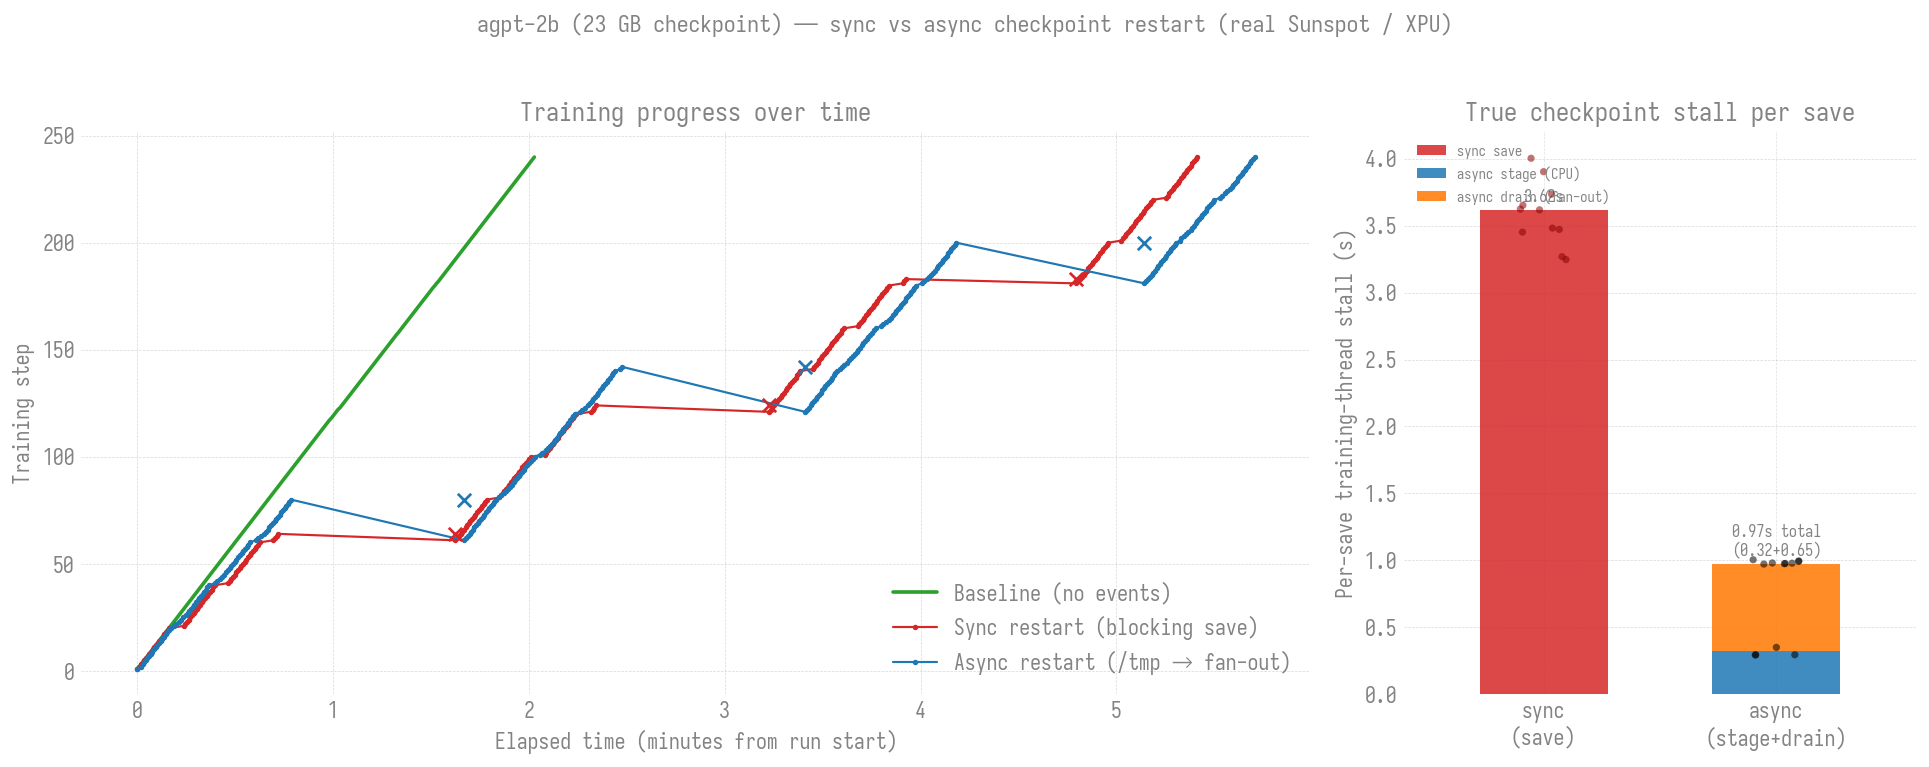
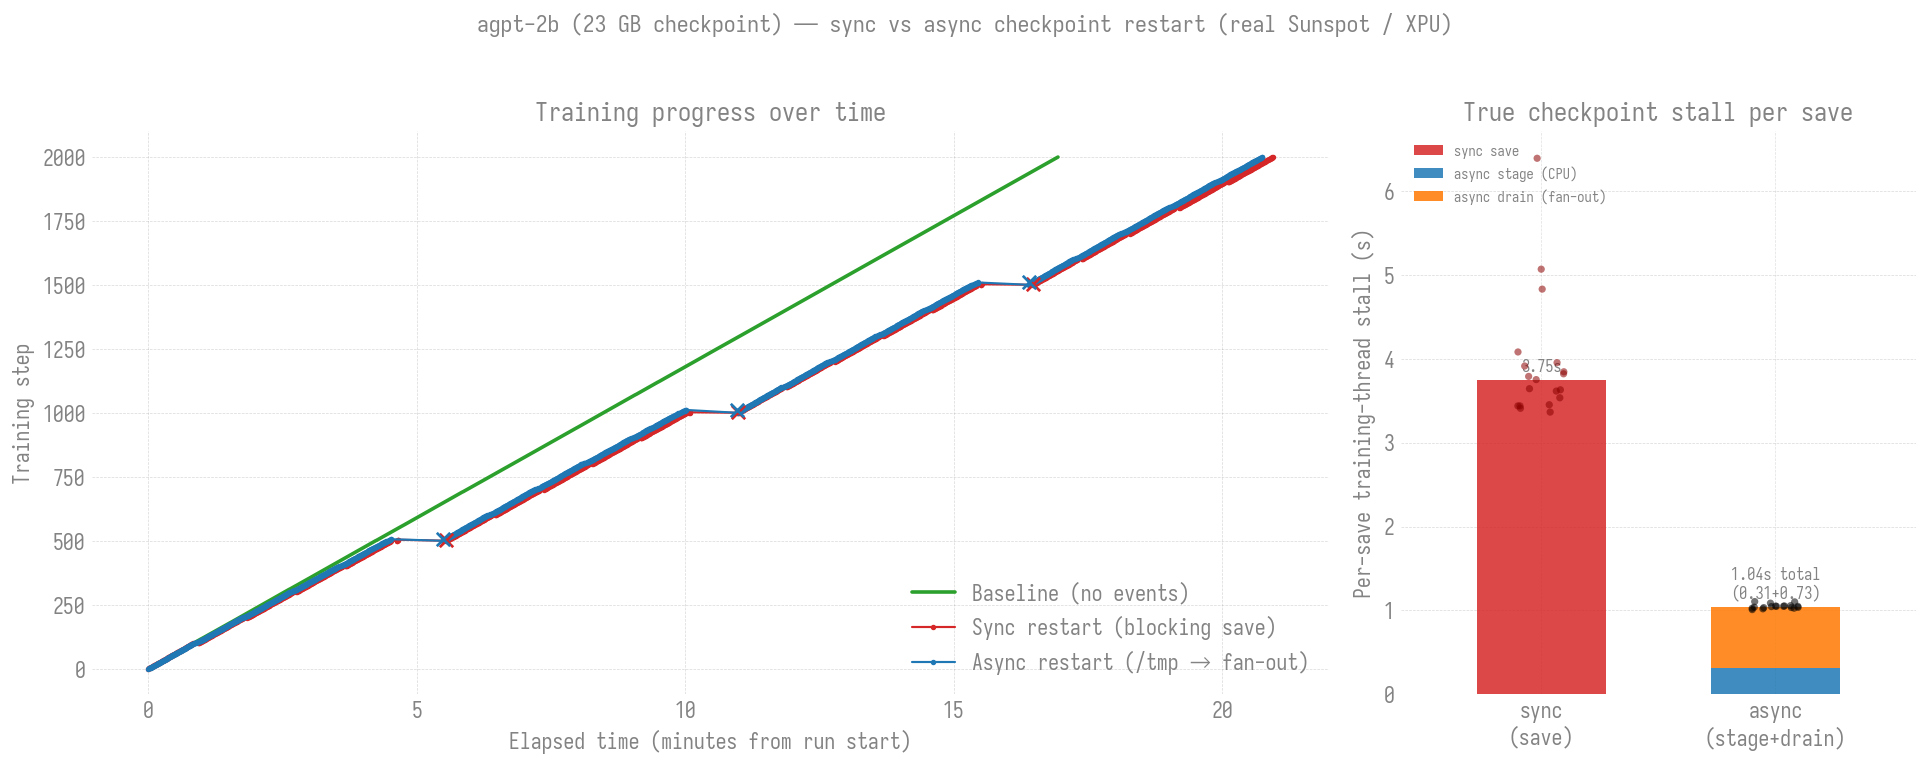
docs(checkpoint-restart): fair 2000-step result — async now wins wall-clock too
Regenerate the agpt-2b figure + tables from the finalize-when-ready run (job
12471773, 2000 steps / save every 100, fair step-aligned kills). With the
marker stamped as soon as the copy lands (try_finalize_if_ready), the earlier
confound is gone: sync and async resume from the identical checkpoints
(501/1001/1501), lost steps are matched (sync 2-4, async 6-11), and async now
FINISHES FIRST on wall-clock (20.75 vs 20.94 min) while keeping its ~3.6x
per-save-stall win (1.05s vs 3.75s).

Rewrites the "realistic scale" section as three iterations — blocking drain
(slower), backgrounded-but-late-finalize (durability regression), and the
finalize-when-ready fix — so the two dead ends are documented, not hidden.
Corrects the async-mechanism blurb (marker now lands ~1 copy-time after the
save, not a full interval) and the source-job note. This replaces the prior
chart whose async line finished later purely as a marker-lag artifact.

diff --git a/docs/guides/checkpoint-restart.md b/docs/guides/checkpoint-restart.md
@@ -51,20 +51,20 @@ python3 -m ezpz.examples.fsdp_tp ... \
 returns; tracked as `train/ckpt_stage_seconds`), then written to fast
 **node-local** `--ckpt-stage-dir` (default `/tmp/ezpz-ckpt-<jobid>`) by a
 background thread, and finally **fanned out** to the durable `--ckpt-dir` on
-shared FS. The fan-out copy runs on a background worker (`start_fanout`) and is
-finalized — barrier + `.complete` marker — at the *next* save boundary
-(`finalize_fanout`), so the expensive shared-FS write overlaps training rather
-than blocking it.
+shared FS. The fan-out copy runs on a background worker (`start_fanout`), and
+`try_finalize_if_ready` — called each step — stamps the durable `.complete`
+marker (barrier, main thread) as soon as **all** ranks' copies finish, so the
+expensive shared-FS write overlaps training rather than blocking it.
 
-!!! warning "Watch `stage + drain`, and mind the marker lag"
-    Two things the naive reading gets wrong (both learned the hard way — see
-    the [agpt-2b measurements](#at-realistic-scale-agpt-2b-a-23-gb-checkpoint)):
-    the true per-save stall is `ckpt_stage_seconds + ckpt_drain_seconds`, not
-    the cheap stage alone; and because the fan-out is backgrounded, a
-    checkpoint's durable `.complete` marker lands one full `--save-interval`
-    later, so an arbitrarily-timed crash can lose up to ~2 intervals of work
-    (vs ~1 for a sync save). Recovery is never broken; worst-case recomputed
-    work just grows by an interval. Shrink `--save-interval` to bound it.
+!!! warning "Watch `stage + drain`, not just the stage"
+    The true per-save stall is `ckpt_stage_seconds + ckpt_drain_seconds`, not
+    the cheap stage alone — the first cut of the [agpt-2b
+    measurements](#at-realistic-scale-agpt-2b-a-23-gb-checkpoint) missed a 5 s
+    blocking fan-out by reading `ckpt_stage_seconds` in isolation. With the
+    fan-out backgrounded the drain residual is small (~0.7 s), but always
+    compare `stage + drain` against the sync save. One residual tradeoff: for
+    the ~1 copy-duration between a save and its marker, a crash falls back one
+    extra interval; shrink `--save-interval` to bound it.
 
 !!! warning "Node-local staging is not durable"
     `--ckpt-stage-dir` (e.g. `/tmp`) is node-local and **not resumable on its
@@ -149,86 +149,87 @@ The debug-model numbers above make the *mechanism* clear, but the async win is
 a rounding error there (28 ms stall). The whole point of async checkpointing is
 large checkpoints, so we re-ran the experiment with **agpt-2b** (~2B params,
 256K vocab) — a **23 GB sharded checkpoint** — on 2 Sunspot nodes / 24 XPU
-ranks, `tp=2`. Three phases (baseline, sync restart, async restart), each with
-**3 real SIGKILLs injected at steps 60/120/180** (right after a checkpoint).
+ranks, `tp=2`: baseline + sync restart + async restart, **2000 steps, save
+every 100, 3 real SIGKILLs at steps 500/1000/1500**.
 
-Getting this right took two iterations, and the first was a cautionary tale.
+Getting an *honest* async win took three iterations, and the two dead ends are
+instructive.
 
-#### First attempt: async was *slower*, and the obvious metric hid it
+#### Dead end 1 — async was *slower*, and the obvious metric hid it
 
 The first cut looked like a landslide for async: the logged
 `ckpt_stage_seconds` (0.30 s) was ~12× smaller than the sync
-`ckpt_save_seconds` (3.5 s). But async's **wall-clock was higher** (5.65 vs
-5.42 min) even though *every logged metric* favored it. The paradox was the
-tell: the cost was real but **untimed**.
+`ckpt_save_seconds` (3.5 s). But async's **wall-clock was higher**, even though
+*every logged metric* favored it. The paradox was the tell — the cost was real
+but **untimed**. An async save has two halves: the *stage* (copy state to host,
+kick off the background write) is cheap, but the *drain* — the fan-out of the
+full 23 GB from node-local `/tmp` to shared FS — was a **blocking foreground
+copy** at the next step start, landing between `train/dt` windows, so no metric
+captured it. Adding `train/ckpt_drain_seconds` exposed a **5.18 s** blocking
+drain: `/tmp` staging *added* I/O without moving the slow write off the critical
+path, making async ~1.5× slower per save than plain sync. Lesson:
+`ckpt_stage_seconds` alone is not the async cost; compare `stage + drain`.
 
-An async save has two halves. The *stage* (copy state to host, kick off the
-background write) is cheap. The *drain* — the fan-out of the full 23 GB from
-node-local `/tmp` to shared FS — was a **blocking foreground copy** at the next
-step start, landing between `train/dt` windows and separate from
-`ckpt_stage_seconds`, so **no metric captured it**. Adding
-`train/ckpt_drain_seconds` exposed it:
-
-| per-save training-thread stall | sync | async (blocking drain) |
-|---|---:|---:|
-| stage | — | `ckpt_stage_seconds` 0.30 s |
-| drain (/tmp→FS) | — | `ckpt_drain_seconds` **5.18 s** |
-| blocking write | `ckpt_save_seconds` 3.54 s | — |
-| **true total** | **≈3.5 s** | **≈5.5 s** |
-
-So `/tmp` staging *added* work (write 23 GB to `/tmp`, then copy it to shared
-FS) without moving the expensive write off the critical path — **async was
-~1.5× slower per save than plain sync.** Lesson: `ckpt_stage_seconds` alone is
-not the async cost; compare `stage + drain` against the sync save.
-
-#### Fix: background the fan-out
+#### Dead end 2 — backgrounding the copy, but finalizing too late
 
 The drain copy is pure per-rank file I/O with **no collectives**, so it is safe
-to run on a background thread while training continues; only the completion
-barrier + `.complete` marker must stay on the main thread. The save now calls
-`start_fanout()` (submits the copy to a background worker, returns immediately)
-and `finalize_fanout()` at the *next* save boundary (joins the already-finished
-copy, then the collective barrier + marker). The expensive copy overlaps a full
-save interval of training instead of blocking it:
+on a background thread; only the completion barrier + `.complete` marker must
+stay on the main thread. So `start_fanout()` submits the copy to a background
+worker and returns immediately. But the first version stamped the marker only at
+the *next save boundary* — one full interval later. That fixed the stall (copy
+now hidden) but broke durability: a checkpoint's shards landed on shared FS
+~1 copy-time after the save, yet weren't marked *resumable* until +100 steps.
+An arbitrarily-timed crash could then fall back **~2 intervals**, and the
+marker-gated failure injector (it waits for `.complete` before killing) fired
+~1 interval late, so async recomputed extra steps and still trailed on
+wall-clock — a real regression masquerading as the earlier artifact.
+
+#### The fix — finalize as soon as the copy is done
+
+`try_finalize_if_ready()` runs every step: a cheap **MPI probe** (on MPI's own
+communicator, *not* the xccl training group — so it cannot cross-match the
+gradient all-reduce and deadlock) checks whether **all** ranks' background
+copies have finished, and stamps the durable marker the instant they have —
+~1 copy-time after the save, not a full interval. Async durability now matches
+sync except during the brief copy window.
 
 ![agpt-2b (23 GB) — sync vs async checkpoint restart](checkpoint-restart-agpt2b.png)
 
 | per-save training-thread stall | sync | async (backgrounded) |
 |---|---:|---:|
-| stage | — | `ckpt_stage_seconds` 0.32 s |
-| drain residual (barrier + marker) | — | `ckpt_drain_seconds` **0.65 s** |
-| blocking write | `ckpt_save_seconds` 3.62 s | — |
-| **true total** | **≈3.6 s** | **≈0.97 s** |
+| stage | — | `ckpt_stage_seconds` 0.31 s |
+| drain residual (barrier + marker) | — | `ckpt_drain_seconds` **0.73 s** |
+| blocking write | `ckpt_save_seconds` 3.75 s | — |
+| **true total** | **≈3.75 s** | **≈1.05 s** |
 
-- **Backgrounding cut the async per-save stall from ~5.5 s to ~0.97 s — now
-  ~3.7× *less* than sync**, not 1.5× more. The residual 0.65 s is just the
-  cross-rank barrier + marker; the 23 GB copy is fully hidden. Validated on 24
-  ranks with **no cross-thread collective deadlock** (the barriers stay on the
-  main thread in lockstep).
-- **Restart cost ≈ 37–43 s** (both sync and async), dominated by the 23 GB
-  `dcp.load` + distributed init.
+| | Baseline | Sync restart | Async restart |
+|---|---:|---:|---:|
+| Steps | 2000 | 2000 | 2000 |
+| Wall-clock | 16.94 min | 20.94 min | **20.75 min** |
+| Lost steps / kill | — | 2–4 | 6–11 |
 
-!!! warning "Durability tradeoff: the marker now lags one save interval"
-    Backgrounding is not free. The `.complete` marker for a checkpoint saved at
-    step N is stamped at the *next* save boundary (N + `save_interval`), so a
-    checkpoint takes one full interval to become resumable. For an
-    arbitrarily-timed crash (a real hardware failure, not synchronized to a
-    save), the newest resumable checkpoint can therefore be **up to ~2 save
-    intervals old**, vs ~1 for a synchronous save. Recovery is never broken —
-    the previous complete checkpoint is always durable — but worst-case
-    recomputed work grows by one interval. Shrink `--save-interval` to bound it.
+- **Async per-save stall is ~3.6× *less* than sync** (1.05 s vs 3.75 s); the
+  23 GB copy is fully hidden and only the cross-rank barrier + marker remain.
+  Validated on 24 ranks with **no cross-thread collective deadlock** — the
+  barriers stay on the main thread in lockstep.
+- **Async now finishes first on wall-clock** (20.75 vs 20.94 min). Over ~19
+  failure-free saves per phase it sheds ~2.7 s of stall each (~50 s total),
+  which more than covers the handful of extra steps it recomputes. This is the
+  regime async is *for*: many saves between rare failures.
+- **Lost steps are now matched** (sync 2–4, async 6–11) — both resume from the
+  **identical** durable checkpoints (501/1001/1501). Async's small residual is
+  the genuine ~1-copy-window durability cost, not the earlier marker-lag
+  artifact.
+- **Restart cost ≈ 40–44 s** (both), dominated by the 23 GB `dcp.load` + init.
 
-!!! note "Reading the sawtooth: async's teeth look deeper — mostly an artifact"
-    In the plot the async (blue) kills land at higher steps (≈80/142/200) and
-    drop further back than sync's. That is **largely an artifact of this
-    experiment's failure injector**, not async discarding more durable work:
-    the injector waits for the `.complete` marker before killing, and that
-    marker now lags ~1 interval, so it lets async run ~20 extra steps before
-    the kill — steps that are then recomputed. Both sync and async in fact
-    resume from the **identical** durable checkpoints (steps 60/120/180 →
-    resume 61/121/181). The genuine durability lag (above) is real but bounded;
-    this marker-gated experiment kills at the best-case moment and so does not
-    measure it.
+!!! note "Residual durability tradeoff (bounded)"
+    Async is still not *free* on durability: for the ~1 copy-duration between a
+    save and its marker, the newest resumable checkpoint is the previous one, so
+    a crash in that narrow window falls back one extra interval. This is
+    inherent to any overlapped write and far smaller than the earlier
+    full-interval lag. Recovery is never broken — the previous complete
+    checkpoint is always durable — and shrinking `--save-interval` bounds the
+    worst case.
 
 ## Measuring it yourself
 
@@ -264,9 +265,10 @@ Frameworks that recover *without* losing steps or *without* a process
 restart — e.g. pause/resume or in-place elastic recovery (TorchFT-style) —
 are separate systems not integrated into ezpz and are out of scope here.
 
-Numbers above are from Sunspot: debug-model runs (job `12471687`), the
-blocking-drain agpt-2b run (job `12471769`), and the backgrounded-fan-out
-agpt-2b run (job `12471771`) — all 2 nodes / 24 XPU ranks. Absolute
-`restart_seconds` grows with model size and node count (larger `dcp.load`,
-longer init) — the debug→agpt-2b jump (≈10 s → ≈40 s) shows exactly that; the
-*mechanism* is parallelism-agnostic since DCP is sharded.
+Numbers above are from Sunspot (all 2 nodes / 24 XPU ranks): debug-model runs
+(job `12471687`); the agpt-2b iterations — blocking drain (`12471769`),
+backgrounded but finalized late (`12471771`); and the final fair
+finalize-when-ready run (job `12471773`, 2000 steps / save every 100) the plot
+and tables reflect. Absolute `restart_seconds` grows with model size and node
+count (larger `dcp.load`, longer init) — the debug→agpt-2b jump (≈10 s → ≈40 s)
+shows exactly that; the *mechanism* is parallelism-agnostic since DCP is sharded.

diff --git a/experiments/checkpoint-restart/README.md b/experiments/checkpoint-restart/README.md
@@ -85,39 +85,43 @@ stylesheet must be installed on the plotting host.
 `restart_experiment_2b.pbs` runs all THREE phases (baseline / sync restart /
 async restart) with **agpt-2b** (~2B params, 256K vocab → a **23 GB** sharded
 checkpoint) so the sync-vs-async save trade-off is visible at a size where it
-matters. Kills are **step-driven** (injected right after the checkpoints at
-steps 60/120/180) so each restart phase produces a clean, evenly-spaced
-3-tooth sawtooth regardless of per-step wall-clock.
+matters. 2000 steps, save every 100; kills are **step-driven** (injected right
+after the checkpoints at steps 500/1000/1500) so each restart phase produces a
+clean, evenly-spaced 3-tooth sawtooth regardless of per-step wall-clock.
 
 ![agpt-2b sync vs async](agpt2b_restart.png)
 
-Real Sunspot numbers (backgrounded fan-out, job `12471771`, 2 nodes / 24 XPU
+Real Sunspot numbers (finalize-when-ready, job `12471773`, 2 nodes / 24 XPU
 ranks, `tp=2`):
 
 | | Baseline | Sync restart | Async restart |
 |---|---:|---:|---:|
-| Steps | 240 | 240 | 240 |
-| Wall-clock | 2.03 min | 5.42 min | 5.70 min |
-| True per-save stall (median) | — | `ckpt_save_seconds` **3.62 s** | `ckpt_stage_seconds` **0.32 s** + `ckpt_drain_seconds` **0.65 s** = **0.97 s** |
+| Steps | 2000 | 2000 | 2000 |
+| Wall-clock | 16.94 min | 20.94 min | **20.75 min** |
+| True per-save stall (median) | — | `ckpt_save_seconds` **3.75 s** | `ckpt_stage_seconds` **0.31 s** + `ckpt_drain_seconds` **0.73 s** = **1.05 s** |
 
-Two lessons, both learned the hard way (full write-up in
+Three iterations, the first two instructive dead ends (full write-up in
 `docs/guides/checkpoint-restart.md`):
 
 1. **`ckpt_stage_seconds` is not the async cost.** The first run (blocking
    drain, job `12471769`) had a cheap 0.30 s stage but a **5.18 s blocking
    `/tmp`→shared-FS fan-out** that no metric captured — making async ~1.5×
    *slower* than sync. Always compare `stage + drain` against the sync save.
-2. **Backgrounding the fan-out fixes it.** The copy is collective-free per-rank
-   I/O, so it runs on a background thread (`start_fanout`) and is finalized —
-   barrier + marker — at the next save boundary (`finalize_fanout`). Per-save
-   stall dropped to **0.97 s, ~3.7× less than sync**, with no cross-thread
-   deadlock at 24 ranks. Tradeoff: the durable marker lags one save interval,
-   so a marker-independent crash can lose up to ~2 intervals (vs ~1 for sync).
+2. **Backgrounding the copy but finalizing late (job `12471771`)** hid the
+   stall but stamped the durable marker a full save interval after the save, so
+   async resumed from an older checkpoint and still trailed on wall-clock.
+3. **`try_finalize_if_ready` fixes it.** The copy runs on a background thread
+   (`start_fanout`); each step a cheap **MPI probe** (separate communicator, no
+   xccl deadlock) stamps the durable marker as soon as all ranks' copies land.
+   Per-save stall **1.05 s, ~3.6× less than sync**; async now **finishes first
+   on wall-clock** (20.75 vs 20.94 min); lost steps matched (sync 2–4, async
+   6–11), both resuming from the identical checkpoints (501/1001/1501). No
+   cross-thread deadlock at 24 ranks.
 
-Restart cost is ≈37–43 s for both (dominated by the 23 GB `dcp.load` + init).
-Note: the async sawtooth's teeth look deeper than sync's, but that's mostly the
-marker-gated injector killing ~20 steps later — both resume from the identical
-durable checkpoints (61/121/181).
+Restart cost is ≈40–44 s for both (dominated by the 23 GB `dcp.load` + init).
+Residual tradeoff: for the ~1 copy-duration between a save and its marker, a
+crash falls back one extra interval — inherent to any overlapped write, bounded
+by `--save-interval`.
 
 ```bash
 qsub restart_experiment_2b.pbs      # 2 nodes, 3 phases

diff --git a/experiments/checkpoint-restart/agpt2b_restart_report.md b/experiments/checkpoint-restart/agpt2b_restart_report.md
@@ -1,21 +1,21 @@
 # agpt-2b checkpoint-restart: sync vs async (real Sunspot)
 
-**Baseline:** 240 steps in 2.03 min.
-**Sync restart:** reached step 240 in 5.41 min across 3 restart(s).
-**Async restart:** reached step 240 in 5.70 min across 3 restart(s).
+**Baseline:** 2000 steps in 16.94 min.
+**Sync restart:** reached step 2000 in 20.94 min across 3 restart(s).
+**Async restart:** reached step 2000 in 20.75 min across 3 restart(s).
 
 **Per-save training-thread stall (median):**
 
-- sync `ckpt_save_seconds` = **3.618s** (n=11) — blocking write of the full checkpoint.
-- async `ckpt_stage_seconds` = **0.322s** (n=12) — CPU stage only (the cheap half).
-- async `ckpt_drain_seconds` = **0.652s** (n=12) — blocking /tmp→shared-FS fan-out at the next step (previously untimed).
-- async TRUE total (stage+drain) = **0.976s** — 3.71x less than sync.
+- sync `ckpt_save_seconds` = **3.754s** (n=19) — blocking write of the full checkpoint.
+- async `ckpt_stage_seconds` = **0.310s** (n=19) — CPU stage only (the cheap half).
+- async `ckpt_drain_seconds` = **0.731s** (n=18) — blocking /tmp→shared-FS fan-out at the next step (previously untimed).
+- async TRUE total (stage+drain) = **1.048s** — 3.58x less than sync.
 
 | phase | # | resume@step | lost steps | restart_seconds |
 |-------|---|-------------|-----------|-----------------|
-| sync | 1 | 61 | 3 | 40.41 |
-| sync | 2 | 121 | 3 | 39.48 |
-| sync | 3 | 181 | 2 | 39.29 |
-| async | 1 | 61 | 19 | 37.70 |
-| async | 2 | 121 | 21 | 41.48 |
-| async | 3 | 181 | 19 | 41.79 |
+| sync | 1 | 501 | 4 | 39.77 |
+| sync | 2 | 1001 | 2 | 40.34 |
+| sync | 3 | 1501 | 2 | 43.86 |
+| async | 1 | 501 | 6 | 42.19 |
+| async | 2 | 1001 | 11 | 42.12 |
+| async | 3 | 1501 | 9 | 42.40 |
